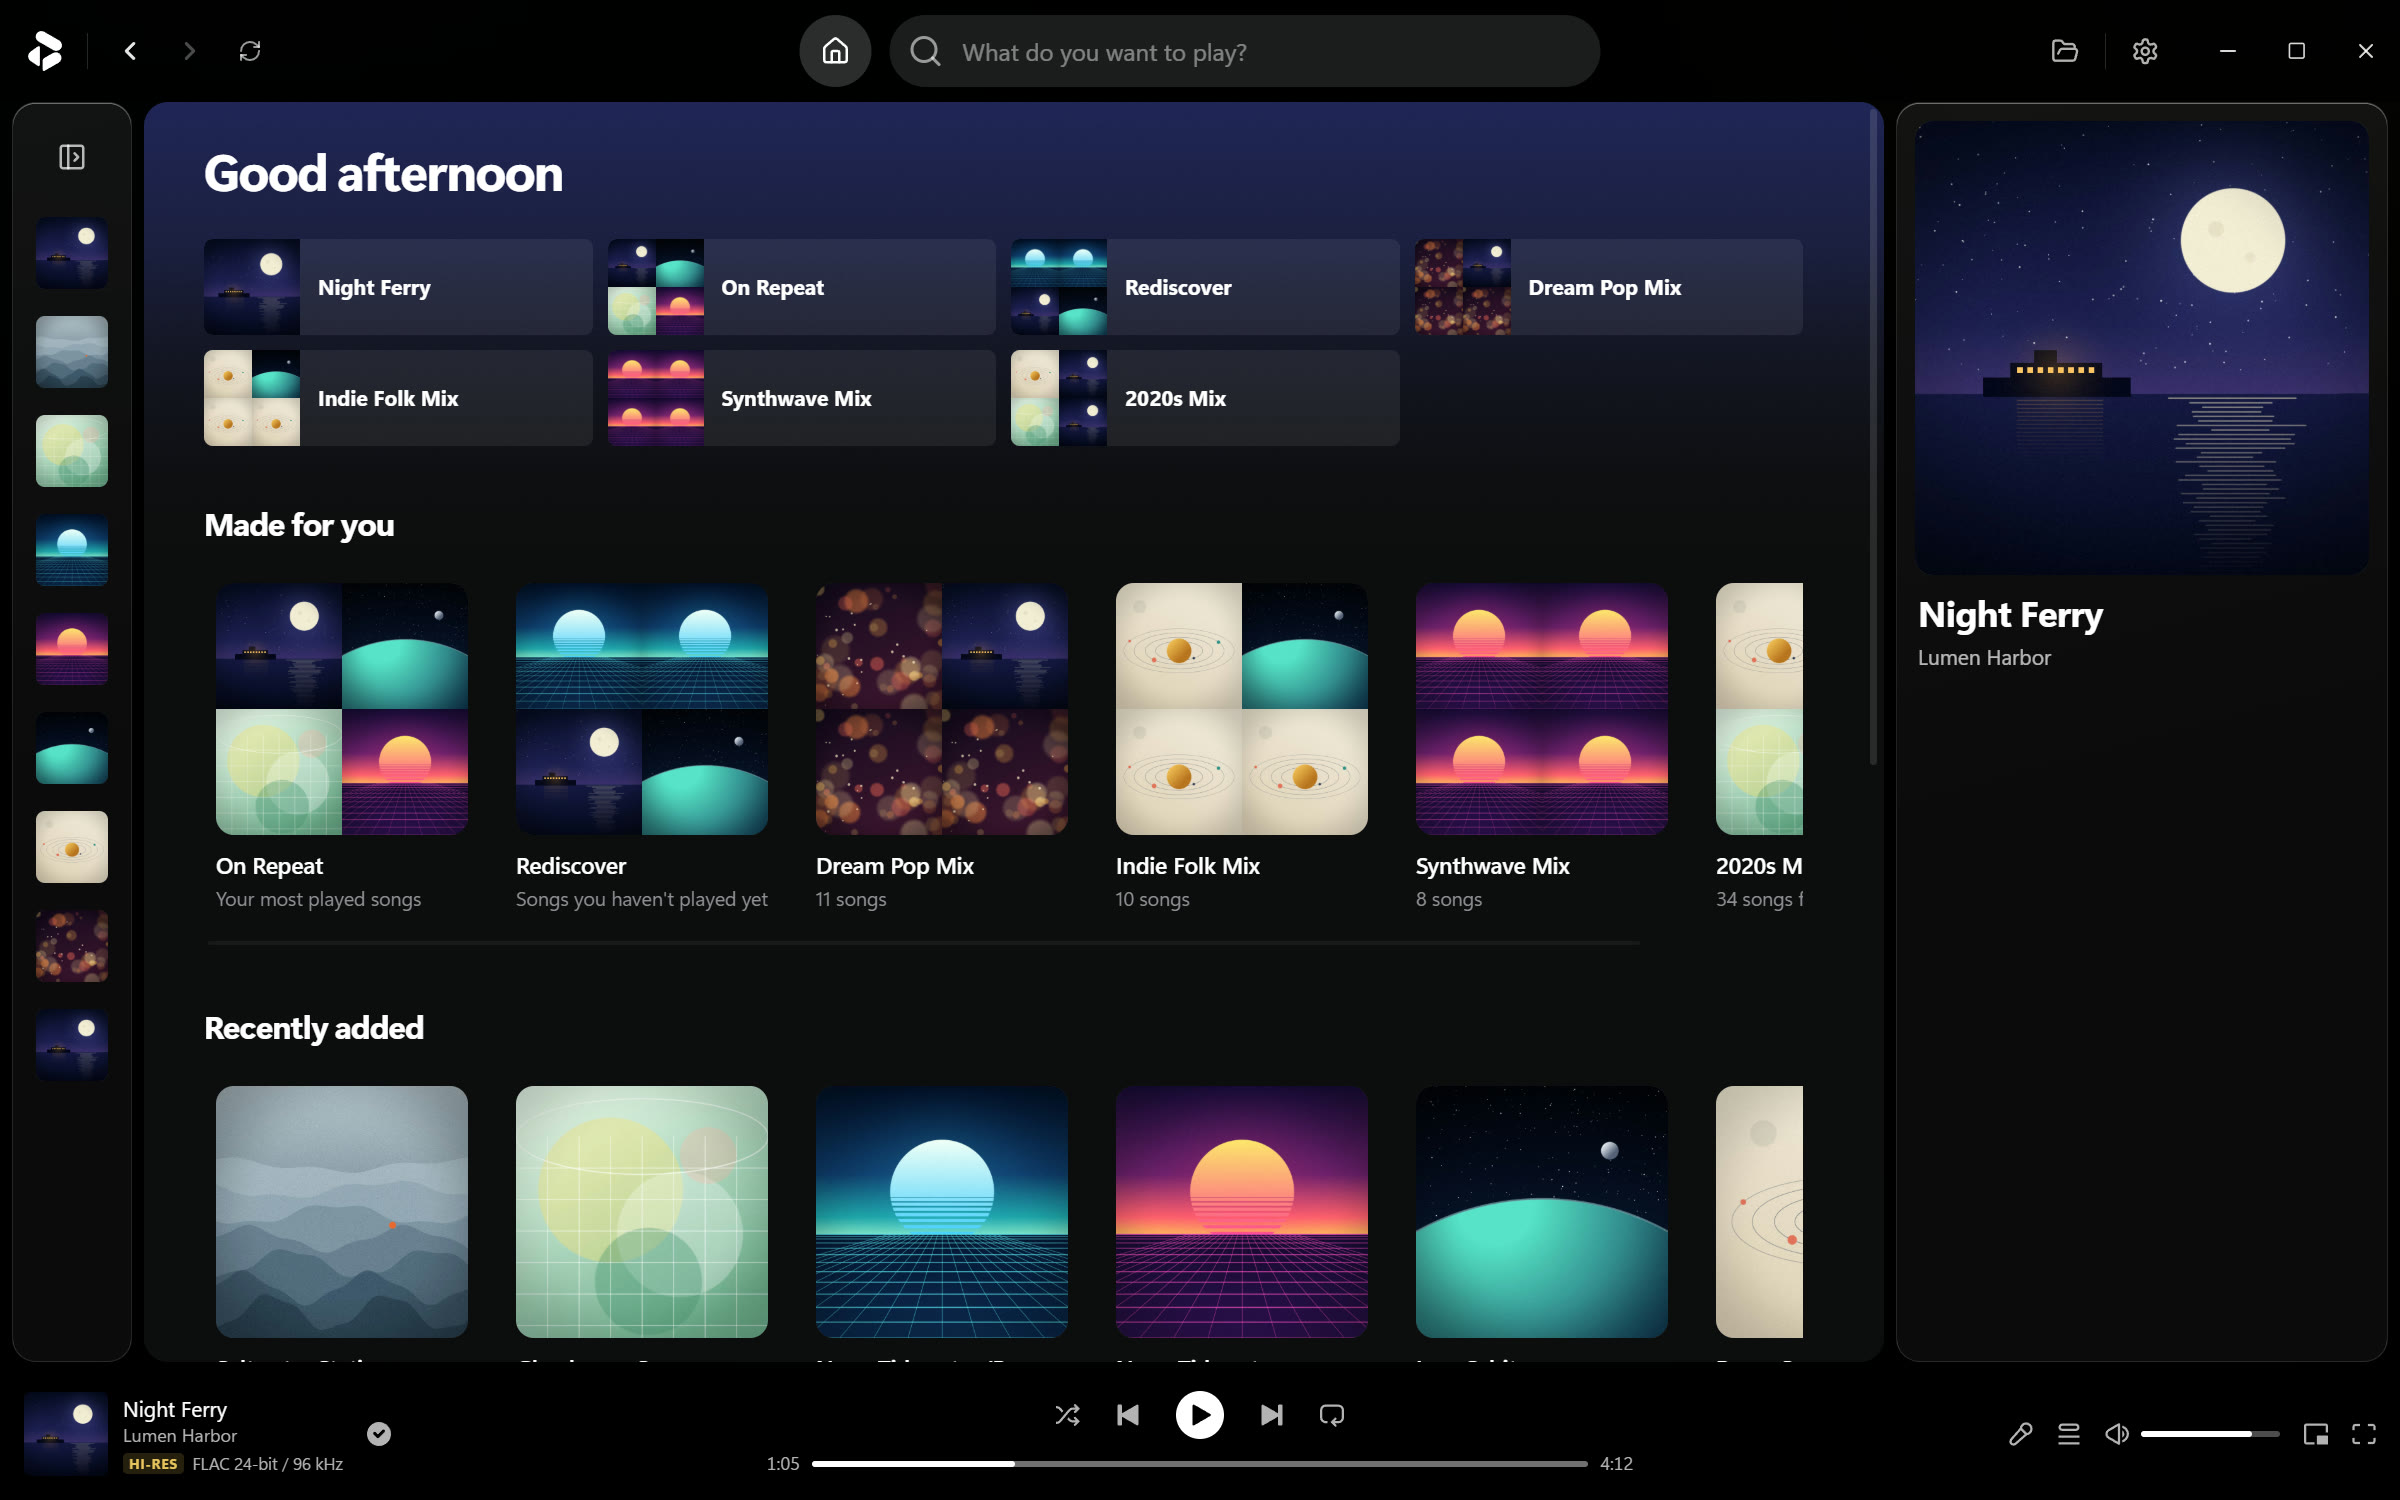
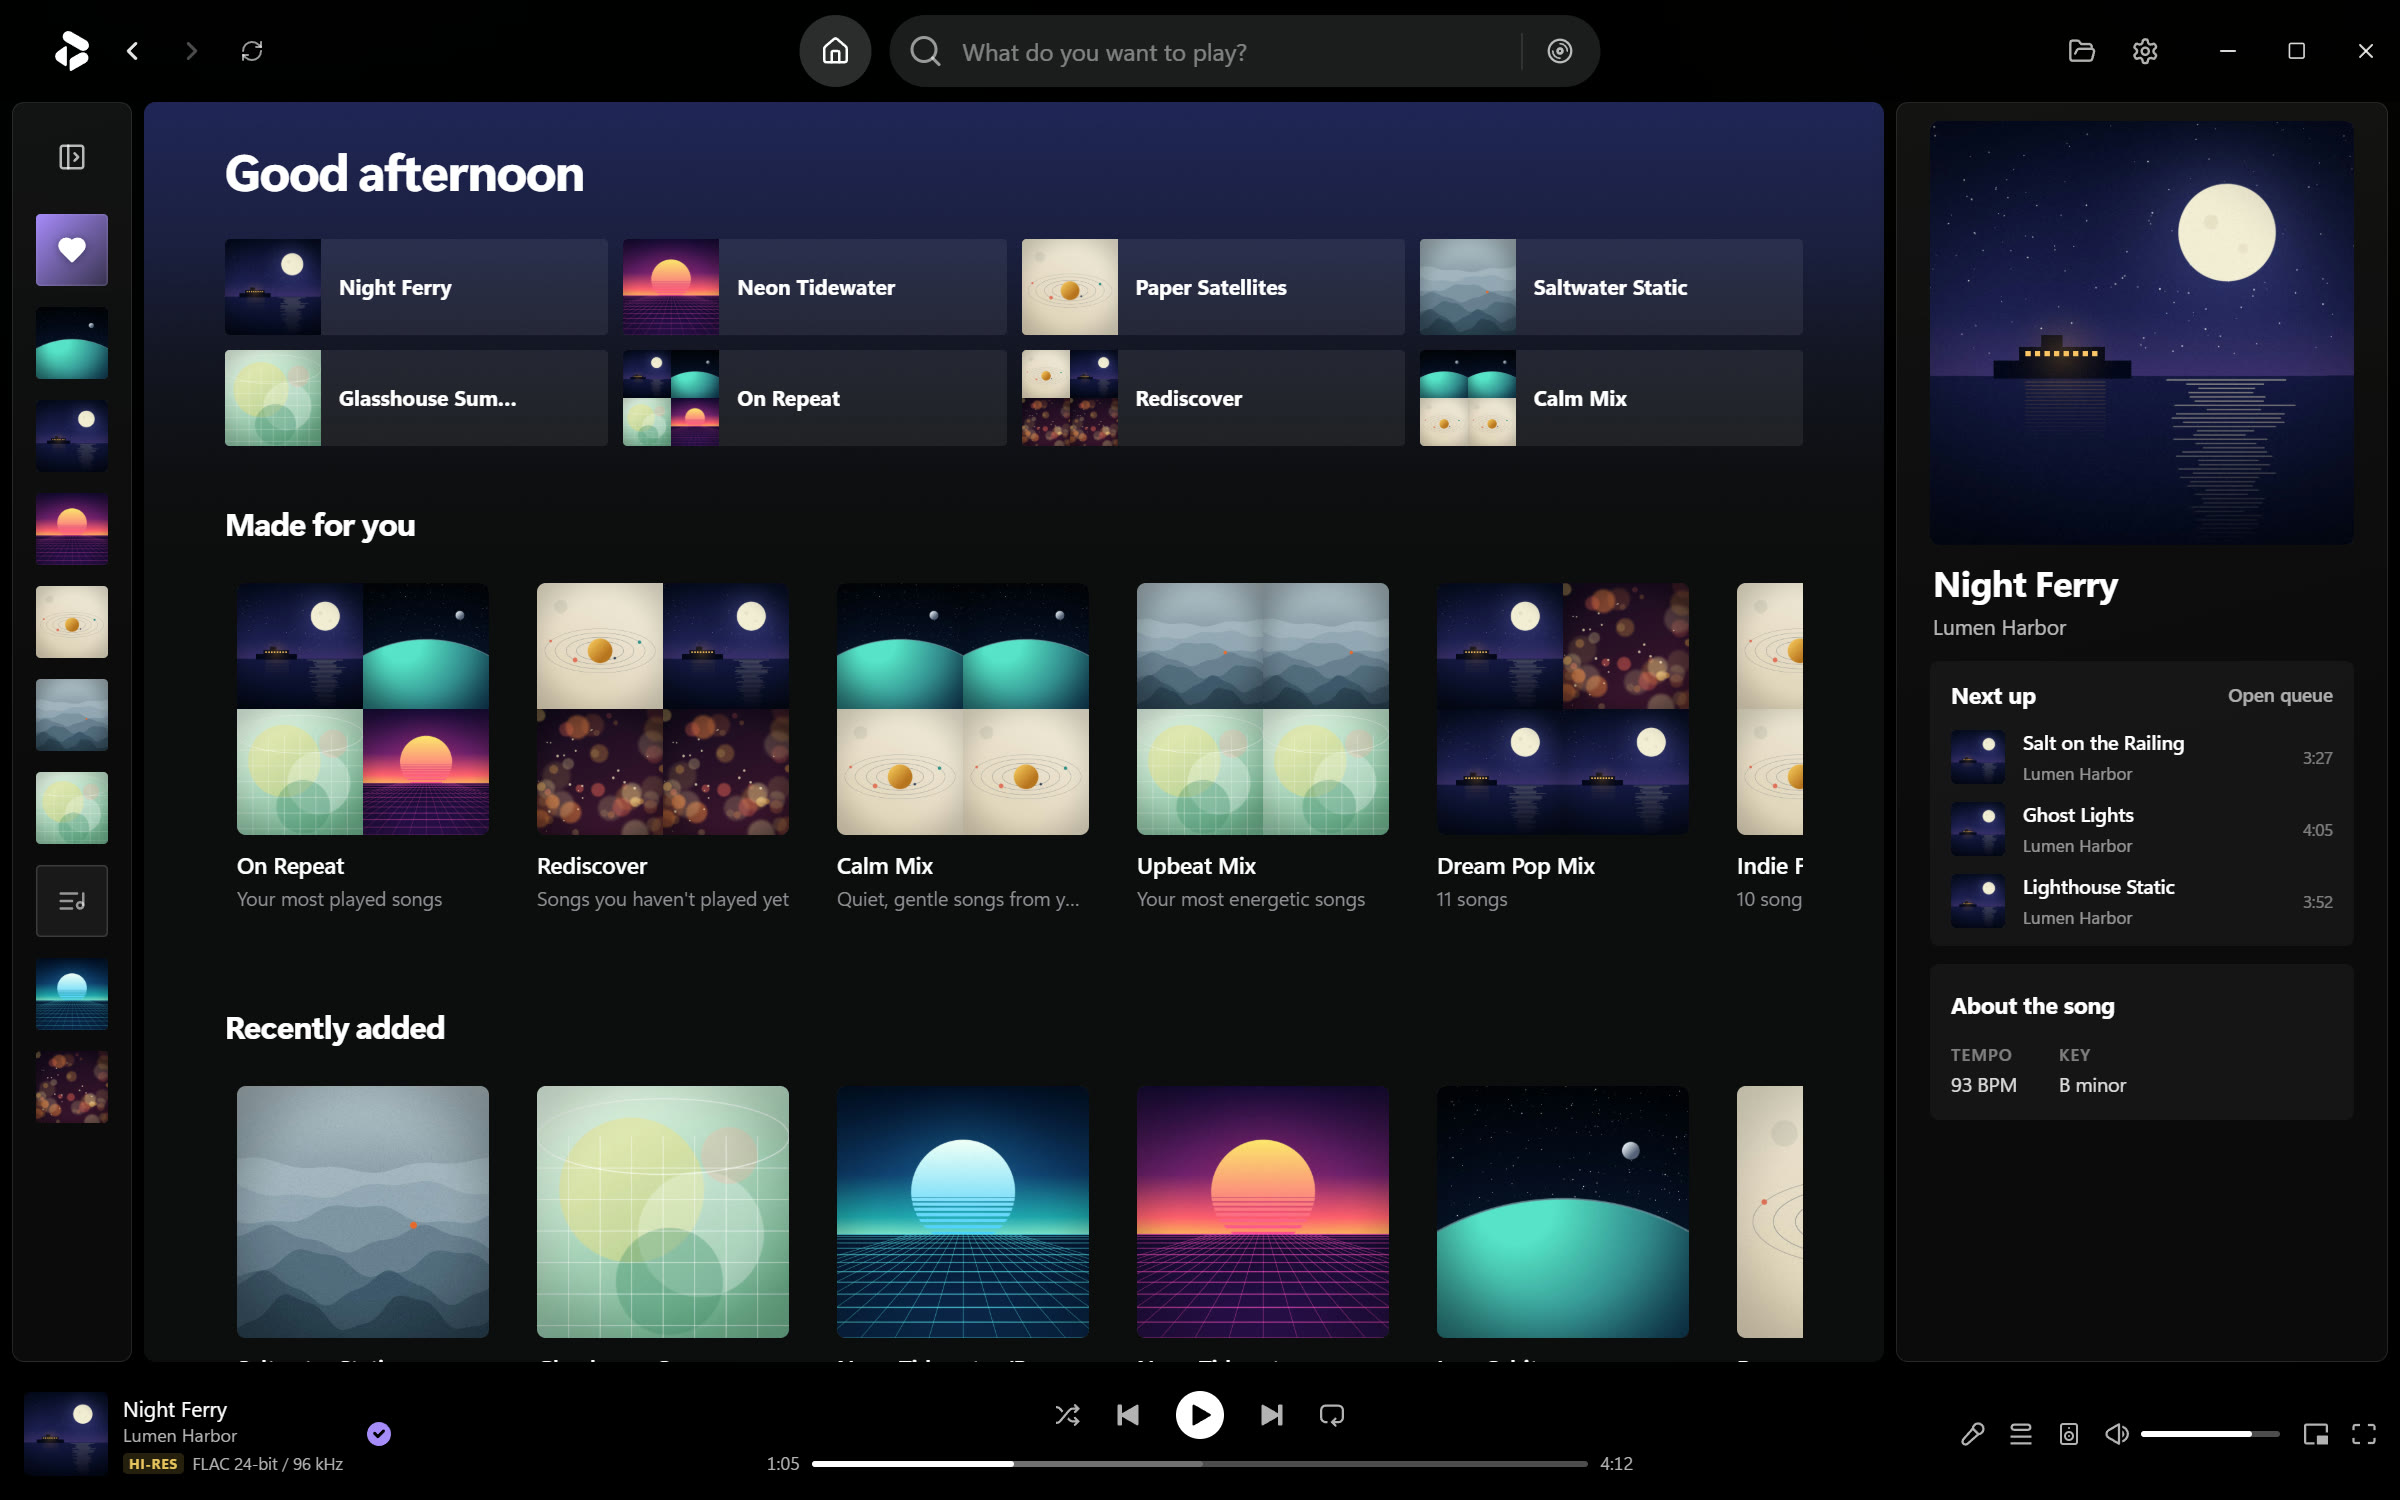
README: new screenshots for 1.1.0
Taken in the built app from the made-up demo library, offline: the album
page with the library panel (pinned rows over what played last) and the
right panel (Next up, tempo and key), Home with the Calm and Upbeat mixes,
an artist page with the liked songs (in place of the discography shot),
"Make an album", the album editor, Now Playing and the Spotify import.
The demo songs now carry a quiet beat in a key of their own, so the sound
analysis has something to measure.

diff --git a/README.md b/README.md
@@ -24,7 +24,7 @@
   <a href="LICENSE"><img src="https://img.shields.io/badge/license-GPL--3.0-a8324a" alt="License: GPL-3.0"></a>
 </p>
 
-![ByTune Local: an album page with its track list, the library panel with albums and EPs, and the player bar showing Hi-Res · FLAC 24-bit / 96 kHz](docs/screenshots/local/album.jpg)
+![ByTune Local: an album page with its track list; the library panel with two pinned rows over what played last; the right panel with what's next and the song's tempo and key; the player bar showing Hi-Res · FLAC 24-bit / 96 kHz](docs/screenshots/local/album.jpg)
 
 ByTune Local is a fork of [ByTune](https://github.com/rishiteja21/ByTune), the open-source YouTube Music desktop app, rebuilt into a player for your own collection. YouTube and the account screens are gone: the app opens in your library, plays from your disk first and streams from your own server only when a file isn't there.
 
@@ -55,7 +55,7 @@ ByTune Local is a fork of [ByTune](https://github.com/rishiteja21/ByTune), the o
 
 ### Your music, arranged like a streaming app
 
-![Home: quick-access tiles, Made for you mixes and recently added albums](docs/screenshots/local/home.jpg)
+![Home: quick-access tiles, Made for you mixes — On Repeat, Rediscover, Calm, Upbeat and one per genre — and recently added albums](docs/screenshots/local/home.jpg)
 
 - **Home**, built only from your library: quick-access tiles, *Made for you* mixes (On Repeat, Rediscover, what you usually play at this time of day, Calm and Upbeat, one per big genre and decade, reshuffled daily), recently added albums, your top artists and recently played songs.
 - **Album and artist pages** with play and shuffle, popular songs ranked by your own plays, the artist's songs you've liked, albums, singles & EPs, "appears on" and the Wikipedia bio.
@@ -64,7 +64,7 @@ ByTune Local is a fork of [ByTune](https://github.com/rishiteja21/ByTune), the o
 - **The library panel** puts what you played last on top. Pinned playlists and albums stay above it, in the order you drag them into; the panel folds down to an icon rail (<kbd>Ctrl</kbd>+<kbd>B</kbd>).
 - **The right panel** shows the playing song — its title opens the album, its artists their pages — what plays next (drag songs in), the song's story and credits from Genius with its tempo and key, and the artist.
 
-![An artist's Discography tab: releases newest first, each with its songs](docs/screenshots/local/discography.jpg)
+![An artist's page: popular songs ranked by your own plays, and the songs of theirs you've liked as a small playlist](docs/screenshots/local/artist.jpg)
 
 ### Fix albums without touching your files
 
@@ -76,6 +76,8 @@ Tags aren't always right. The album editor — the pencil on an album page, or r
 - **merge albums** that show up as several (a "Disc 2", bonus tracks, one song with a different album artist), and separate them again.
 
 Songs whose tags name no album gather under **Songs without an album** in the library panel. *Make an album…* puts them on one — title, artist, year and order — or on an album you already have.
+
+![Make an album: three songs without an album tag, with the album's title taken from their folder, the artist, a year and the order](docs/screenshots/local/make-album.jpg)
 
 ByTune keeps these edits itself; your files and servers stay exactly as they are.
 
